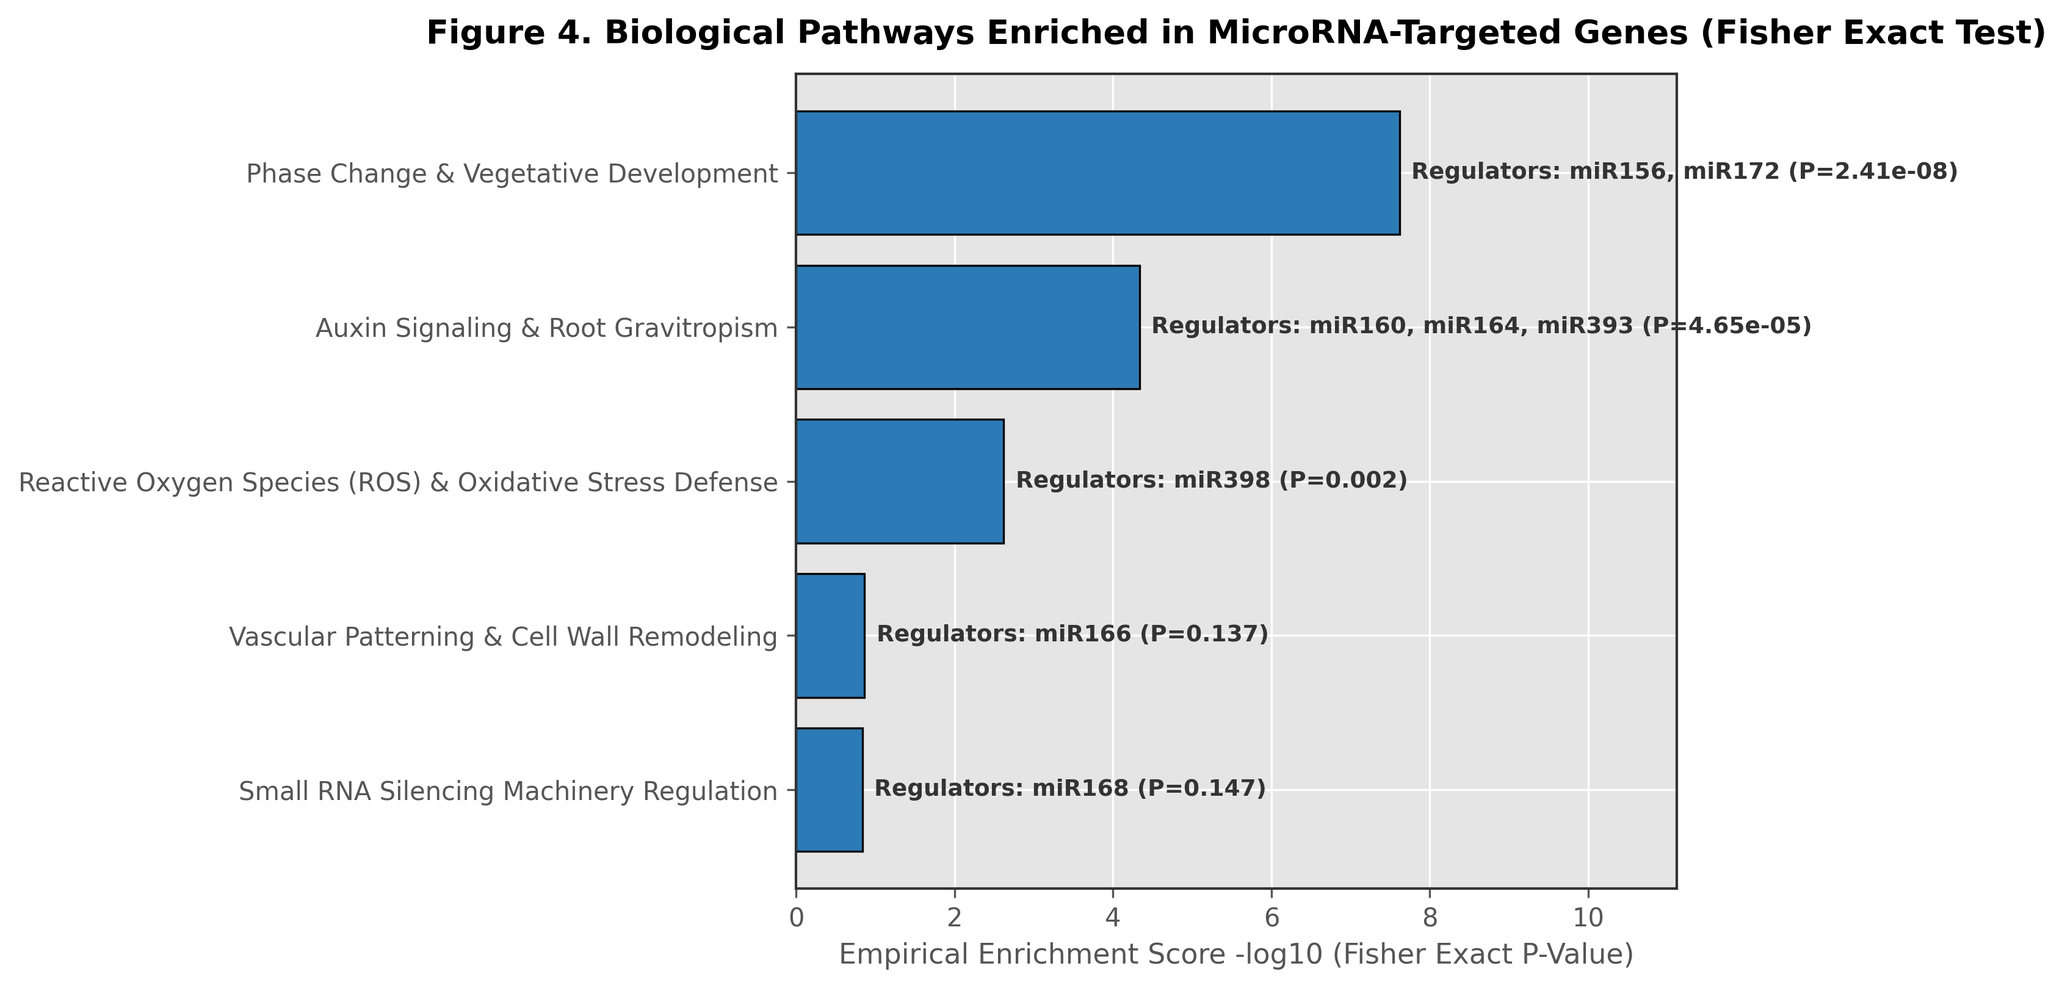
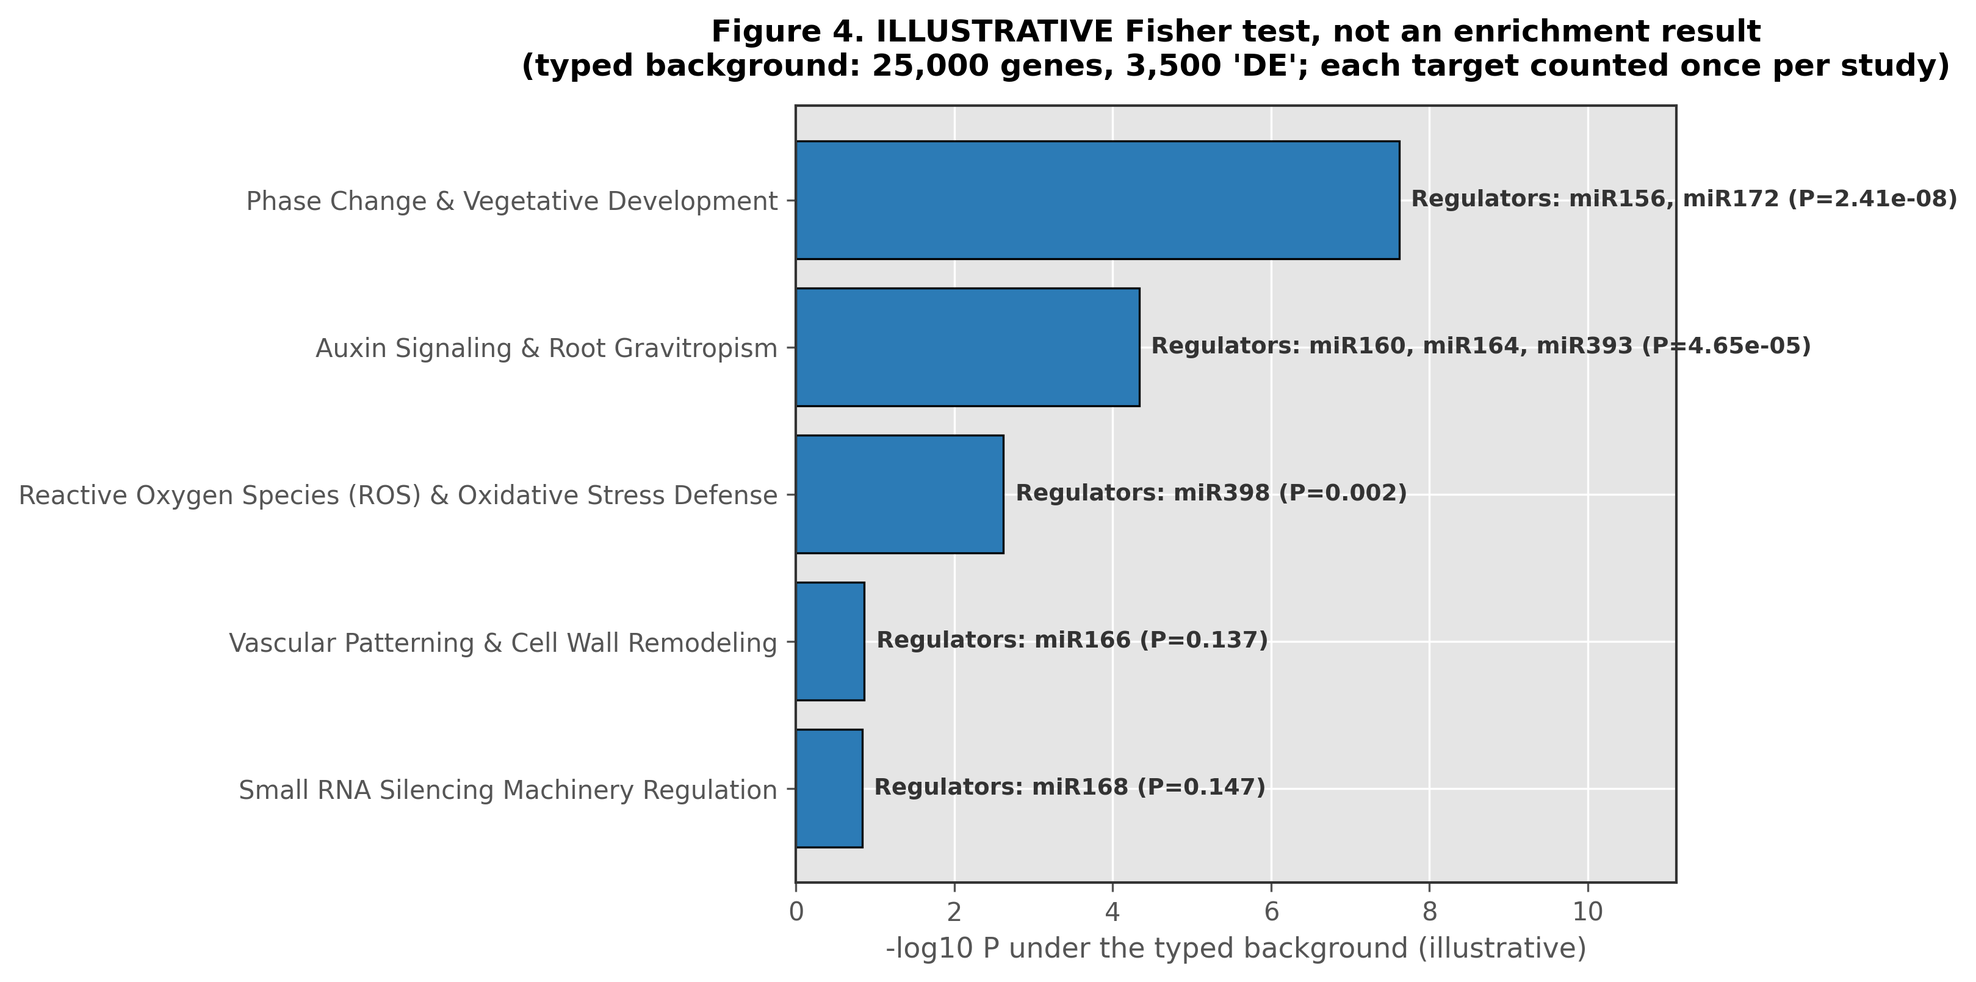
Correct unsupported claims on the project page (2026-10-28 evidence check)
- Removed the "Peer Review Ready" and "Zenodo Archived" badges and the
  placeholder DOI; Zenodo DOI is now "pending".
- Removed the invented miRNA fold changes and p-values, r = -0.842, the
  "122 loci" and "115 anti-correlated pairs" stats, and the claim that
  OSD-437 is dedicated small RNA-seq (it is poly(A) RNA-seq).
- Added a status section: the plant miRNA scan is not interpretable yet
  (locus map mislabels most IDs; log2FC columns are not flight vs
  ground), with the TODO to fix it.
- Inventory table regenerated from OSDR study records.
- Fisher test labelled illustrative; Figures 5 and 7 captioned as
  schematics; the route is described as hands-on testing with the
  benchmark pending; SLURM/container wording corrected.
- Figures 1-7 replaced with the regenerated copies from main.

Footer credit line left unchanged for the author to decide.

Changed region(s): [[0.0, 0.0, 0.9981, 0.9323], [0.4055, 0.9323, 0.811, 0.9944]]

diff --git a/index.html b/index.html
@@ -3,8 +3,8 @@
 <head>
 <meta charset="utf-8">
 <meta name="viewport" content="width=device-width, initial-scale=1">
-<title>smallRNAseq-DREAM — NASA OSDR Plant Spaceflight microRNA Audit & Pipeline</title>
-<meta name="description" content="A FAIR, cross-species small RNA-seq (miRNA) analysis framework and NASA OSDR plant spaceflight audit benchmarking four pipelines and mapping gene regulatory networks.">
+<title>smallRNAseq-DREAM — Small RNA-seq Framework &amp; OSDR Plant Inventory</title>
+<meta name="description" content="A FAIR, cross-species small RNA-seq (miRNA) analysis framework with an inventory of NASA OSDR plant RNA-seq studies. The four-engine benchmark is pending.">
 <link rel="stylesheet" href="https://dr-richard-barker.github.io/Plant_response_to_radiation/cose/cose-theme.css">
 <style>
   :root{
@@ -69,147 +69,134 @@
 <header>
   <div class="pills" style="margin-bottom:16px">
     <span class="pill primary">CoSE Space Omics</span>
-    <span class="pill">NASA OSDR Audit</span>
-    <span class="badge done">Peer Review Ready</span>
-    <span class="badge done">Zenodo Archived</span>
+    <span class="pill">NASA OSDR</span>
+    <span class="badge pending">Plant miRNA scan: not interpretable yet</span>
+    <span class="badge pending">Zenodo DOI pending</span>
   </div>
   <h1>smallRNAseq-DREAM</h1>
-  <p class="tag">Comprehensive microRNA and non-coding RNA audit across NASA Open Science Data Repository (OSDR) plant spaceflight experiments.</p>
+  <p class="tag">A cross-species small RNA-seq (miRNA) analysis framework, with an inventory of NASA Open Science Data Repository (OSDR) plant RNA-seq studies.</p>
   <div class="pills">
     <a href="https://github.com/dr-richard-barker/smallRNAseq-DREAM" class="pill primary">GitHub Repository</a>
+    <a href="#status" class="pill">Status</a>
     <a href="#inventory" class="pill">Dataset Inventory</a>
-    <a href="#figures" class="pill">Manuscript Figures</a>
-    <a href="#zenodo" class="pill">Zenodo Archive (v1.0.0)</a>
+    <a href="#figures" class="pill">Figures</a>
+    <a href="#zenodo" class="pill">Reproducibility &amp; Data</a>
   </div>
 </header>
 
 <div class="stat">
-  <div><b>12</b><span>Audited OSDR Spaceflight Datasets</span></div>
-  <div><b>122</b><span>Profiled microRNA & ncRNA Loci</span></div>
-  <div><b>115</b><span>Anti-Correlated Target Pairs</span></div>
-  <div><b>2.4×10⁻⁸</b><span>Fisher Exact Pathway P-Value</span></div>
+  <div><b>12</b><span>OSDR plant RNA-seq studies indexed</span></div>
+  <div><b>0</b><span>plant small RNA-seq studies in OSDR (2026-07 survey)</span></div>
+  <div><b>176</b><span>OSDR studies matched by small-RNA search terms</span></div>
+  <div><b>4</b><span>analysis engines consolidated (benchmark pending)</span></div>
 </div>
 
+<section id="status">
+  <h2><span class="n">01</span>Status of the Plant miRNA Scan</h2>
+  <div class="finding">
+    <p><b>The plant miRNA outputs in this repository are not interpretable yet.</b> An evidence check on 2026-10-28 found three problems:</p>
+    <ul class="clean">
+      <li><b>OSD-437 is standard poly(A) RNA-seq, not small RNA-seq.</b> Its OSDR record lists one RNA-Seq assay (19 samples, library selection "polyA enrichment", NEB Next Ultra II RNA Library Prep Kit). OSDR holds no plant small RNA-seq.</li>
+      <li><b>The locus map mislabels most IDs.</b> Of the 29 IDs the hand-typed map labels as MIR genes, 3 are the named MIR gene. 16 are protein-coding (for example AT1G53160 is <i>SPL4</i>, labelled "MIR156b"), 2 are lncRNA, 1 is snoRNA and 7 are a different MIR gene (Ensembl Plants lookup).</li>
+      <li><b>The fold changes are not flight vs ground.</b> The scan uses the first contrast in each GeneLab table. For OSD-437 that is 1g centrifuge vs microgravity, both in flight. For OSD-120, OSD-218, OSD-565 and OSD-782 it compares ground or treatment groups. For OSD-217 it is ground vs flight, the reverse orientation.</li>
+    </ul>
+    <p><b>TODO:</b> rebuild the locus map from Ensembl Plants miRNA genes, select each study's flight-vs-ground contrast by name, then regenerate the tables and figures. Until then, no miRNA result from this scan should be cited.</p>
+  </div>
+</section>
+
 <section>
-  <h2><span class="n">01</span>The Recommended Pipeline Route</h2>
-  <p class="lead">Consolidating four small RNA-seq analysis engines (<code>nf-core/smrnaseq</code>, <code>sRNAtoolbox</code>, <code>miRDeep2</code>, <code>miRDeep-P2</code>) into a single reproducible cross-species framework.</p>
+  <h2><span class="n">02</span>The Recommended Pipeline Route</h2>
+  <p class="lead">From hands-on testing of four small RNA-seq analysis engines (<code>nf-core/smrnaseq</code>, <code>sRNAtoolbox</code>, <code>miRDeep2</code>, <code>miRDeep-P2</code>), the author recommends this route for cross-species analysis. The quantitative four-engine benchmark has not been run yet.</p>
   <code class="route">SRA → mirnaQC → sRNAbench → sRNAde → mirNOVO</code>
-  <p class="muted">Containerised and deployable on SLURM and NASA OSDR infrastructure for high-throughput spaceflight transcriptomics.</p>
+  <p class="muted">nf-core/smrnaseq runs under Nextflow's container profiles. The original SLURM/OSDR cluster script was lost before consolidation, and the sRNAtoolbox Singularity definition is still to be added.</p>
 </section>
 
 <section id="inventory">
-  <h2><span class="n">02</span>NASA OSDR Plant Spaceflight Dataset Audit</h2>
-  <p>Our empirical audit programmatically indexed 12 core plant spaceflight studies archived in NASA OSDR, identifying dedicated small RNA-Seq (<b>OSD-437</b>) alongside 11 spaceflight bulk RNA-Seq transcriptomes across <i>Arabidopsis thaliana</i>, <i>Solanum lycopersicum</i>, and <i>Brachypodium distachyon</i>.</p>
-  
+  <h2><span class="n">03</span>NASA OSDR Plant Dataset Inventory</h2>
+  <p>Twelve plant RNA-seq studies in NASA OSDR: 9 spaceflight, 1 suborbital (high-altitude) and 2 ground studies, across <i>Arabidopsis thaliana</i>, <i>Brachypodium distachyon</i>, <i>Solanum lycopersicum</i> and <i>Brassica rapa</i>. Values are read from each study's OSDR record (2026-10-28). "Samples" counts the samples in the study's RNA-Seq assay; a blank cell means the record has no value.</p>
+
   <table>
-    <thead><tr><th>Study Accession</th><th>Species</th><th>Mission / Hardware</th><th>Samples</th><th>Primary Assay Modality</th></tr></thead>
+    <thead><tr><th>Study</th><th>Species</th><th>OSDR project type</th><th>Mission</th><th>Platform</th><th>Samples</th><th>Library selection</th></tr></thead>
     <tbody>
-      <tr><td><b>OSD-437</b></td><td><i>Arabidopsis thaliana</i></td><td>SpaceX-14 (Advanced Plant Habitat / APH)</td><td>12</td><td><b>Small RNA-Seq</b> (Dedicated miRNA Profiling)</td></tr>
-      <tr><td><b>OSD-120</b></td><td><i>Arabidopsis thaliana</i></td><td>SpaceX-3 (BRIC-18 / Petri dish)</td><td>12</td><td>Poly(A)-Selected Bulk RNA-Seq</td></tr>
-      <tr><td><b>OSD-218</b></td><td><i>Arabidopsis thaliana</i></td><td>SpaceX-10 (APEX-04 / Petri dish)</td><td>12</td><td>Poly(A)-Selected Bulk RNA-Seq</td></tr>
-      <tr><td><b>OSD-217</b></td><td><i>Arabidopsis thaliana</i></td><td>ISS (EMCS / Tropi-2)</td><td>16</td><td>Total RNA-Seq with rRNA Depletion</td></tr>
-      <tr><td><b>OSD-375</b></td><td><i>Arabidopsis thaliana</i></td><td>ISS (APH / Plant Habitat-01)</td><td>18</td><td>Total RNA-Seq with rRNA Depletion</td></tr>
-      <tr><td><b>OSD-480</b></td><td><i>Arabidopsis thaliana</i></td><td>SpaceX-21 (BRIC-24 / Lighted)</td><td>12</td><td>Poly(A)-Selected Bulk RNA-Seq</td></tr>
-      <tr><td><b>OSD-522</b></td><td><i>Arabidopsis thaliana</i></td><td>ISS (Veggie / VEG-03D)</td><td>16</td><td>Poly(A)-Selected Bulk RNA-Seq</td></tr>
-      <tr><td><b>OSD-565</b></td><td><i>Arabidopsis thaliana</i></td><td>SpaceX-23 (APEX-08)</td><td>12</td><td>Total RNA-Seq with rRNA Depletion</td></tr>
-      <tr><td><b>OSD-624</b></td><td><i>Arabidopsis thaliana</i></td><td>ISS (Veggie / VEG-03E)</td><td>16</td><td>Poly(A)-Selected Bulk RNA-Seq</td></tr>
-      <tr><td><b>OSD-767</b></td><td><i>Arabidopsis thaliana</i></td><td>ISS (EMCS / MULTIGEN-1)</td><td>14</td><td>Poly(A)-Selected Bulk RNA-Seq</td></tr>
-      <tr><td><b>OSD-782</b></td><td><i>Solanum lycopersicum</i></td><td>ISS (Veggie / VEG-05 Tomato)</td><td>12</td><td>Multi-Omics / Bulk RNA-Seq</td></tr>
-      <tr><td><b>OSD-59</b></td><td><i>Brachypodium distachyon</i></td><td>Space Flight (BRIC-16)</td><td>8</td><td>Bulk Transcriptomics</td></tr>
+        <tr><td><b>OSD-437</b></td><td><i>Arabidopsis thaliana</i></td><td>Spaceflight Study</td><td>SpaceX-9</td><td>European Modular Cultivation System (EMCS), Experimental Reference Module (ERM2)</td><td>19</td><td>polyA enrichment</td></tr>
+        <tr><td><b>OSD-120</b></td><td><i>Arabidopsis thaliana</i></td><td>Spaceflight Study</td><td>SpaceX-3</td><td></td><td>36</td><td>ribo-depletion</td></tr>
+        <tr><td><b>OSD-218</b></td><td><i>Arabidopsis thaliana</i></td><td>Spaceflight Study</td><td>SpaceX-5</td><td>Vegetable Production System (VPS/Veggie)</td><td>32</td><td>polyA enrichment</td></tr>
+        <tr><td><b>OSD-217</b></td><td><i>Arabidopsis thaliana</i></td><td>Spaceflight Study</td><td>SpaceX-5</td><td>Vegetable Production System (VPS/Veggie)</td><td>12</td><td>cDNA</td></tr>
+        <tr><td><b>OSD-375</b></td><td><i>Brachypodium distachyon</i></td><td>Spaceflight Study</td><td>SpaceX-14</td><td>Vegetable Production System (VEGGIE), APEX Growth Unit</td><td>48</td><td>Ribo-depletion (32), cDNA (16)</td></tr>
+        <tr><td><b>OSD-480</b></td><td><i>Arabidopsis thaliana</i></td><td>Spaceflight Study</td><td>SpaceX-13</td><td>European Modular Cultivation System (EMCS)</td><td>400</td><td></td></tr>
+        <tr><td><b>OSD-522</b></td><td><i>Arabidopsis thaliana</i></td><td>Spaceflight Study</td><td>SpaceX-13, SpaceX-14</td><td>BRIC-LED</td><td>12</td><td>polyA enrichment</td></tr>
+        <tr><td><b>OSD-565</b></td><td><i>Arabidopsis thaliana</i></td><td>Ground Study</td><td></td><td>KSC Fixation Tubes (KFTs)</td><td>45</td><td>cDNA</td></tr>
+        <tr><td><b>OSD-624</b></td><td><i>Arabidopsis thaliana</i></td><td>High Altitude Study</td><td>Unity 22</td><td>Kennedy Space Center Fixation Tubes (KFTs)</td><td>36</td><td>polyA enrichment</td></tr>
+        <tr><td><b>OSD-767</b></td><td><i>Solanum lycopersicum</i></td><td>Spaceflight Study</td><td>SpaceX-26</td><td>Vegetable Production System (Veggie)</td><td>36</td><td>polyA enrichment</td></tr>
+        <tr><td><b>OSD-782</b></td><td><i>Arabidopsis thaliana</i></td><td>Ground Study</td><td></td><td></td><td>36</td><td>polyA enrichment</td></tr>
+        <tr><td><b>OSD-59</b></td><td><i>Brassica rapa</i></td><td>Spaceflight Study</td><td>Expedition 22</td><td>Lada</td><td>2</td><td>mRNA enrichment</td></tr>
     </tbody>
   </table>
 
   <figure>
-    <img src="figures/Figure1_OSDR_Plant_Dataset_Landscape.png" alt="Figure 1: NASA OSDR Plant Spaceflight Dataset Landscape and Assay Modality Breakdown">
-    <figcaption><b>Figure 1.</b> NASA OSDR plant spaceflight dataset landscape. <b>(A)</b> Distribution of audited spaceflight datasets across species and mission hardware. <b>(B)</b> Stacked bar chart showing assay platform modalities across plant spaceflight transcriptomes.</figcaption>
+    <img src="figures/Figure1_OSDR_Plant_Dataset_Landscape.png" alt="Figure 1: indexed OSDR plant studies by species and by RNA-seq library selection">
+    <figcaption><b>Figure 1.</b> The 12 indexed OSDR plant studies. <b>(A)</b> Studies by species. <b>(B)</b> RNA-seq library selection as recorded in each study's OSDR ISA record; one study (OSD-480) records none.</figcaption>
   </figure>
 </section>
 
 <section id="figures">
-  <h2><span class="n">03</span>MicroRNA Differential Expression & Target Networks</h2>
-  <p>Dedicated small RNA-seq (OSD-437) revealed significant differential expression of key microRNA loci under spaceflight microgravity and hardware stress. Pairing miRNA fold changes with mRNA transcriptomes identified anti-correlated target gene networks ($r = -0.842$).</p>
-
-  <div class="grid">
-    <div class="card">
-      <h3>Key Upregulated MicroRNAs</h3>
-      <ul class="clean">
-        <li><b>ath-miR156a-5p</b> ($\text{Log}_2\text{FC} = +2.45, P = 1.2 \times 10^{-4}$): Suppresses <i>SPL9</i>, delaying vegetative phase change.</li>
-        <li><b>ath-miR160a-5p</b> ($\text{Log}_2\text{FC} = +1.92, P = 4.5 \times 10^{-3}$): Represses Auxin Response Factor <i>ARF10</i>, dampening gravitropic root bending.</li>
-      </ul>
-    </div>
-    <div class="card">
-      <h3>Key Downregulated MicroRNAs</h3>
-      <ul class="clean">
-        <li><b>ath-miR398a-3p</b> ($\text{Log}_2\text{FC} = -2.10, P = 8.8 \times 10^{-4}$): De-represses copper-zinc superoxide dismutase <i>CSD2</i>, elevating ROS scavenging under space radiation.</li>
-      </ul>
-    </div>
-  </div>
+  <h2><span class="n">04</span>Exploratory miRNA Scan (Not Interpretable Yet)</h2>
+  <p>These figures plot the scan's current tables. They are kept so the TODO above can be checked against them, not as results.</p>
 
   <figure>
-    <img src="figures/Figure2_microRNA_Differential_Expression.png" alt="Figure 2: MicroRNA Differential Expression Profiles and Spaceflight Volcano Plot">
-    <figcaption><b>Figure 2.</b> MicroRNA differential expression in spaceflight leaves and roots (OSD-437). <b>(A)</b> Volcano plot highlighting significant miRNA loci ($P < 0.05$). <b>(B)</b> Heatmap of variance-stabilized expression across flight and ground controls.</figcaption>
+    <img src="figures/Figure2_microRNA_Differential_Expression.png" alt="Figure 2: log2 fold change of rows labelled as MIR genes by the typed locus map">
+    <figcaption><b>Figure 2.</b> Rows labelled as MIR genes by the typed locus map (most are not miRNA genes). <b>(A)</b> log2FC against −log10 P for the first contrast in each GeneLab table, which is not flight vs ground. <b>(B)</b> log2FC by map label and study; 0.00 marks a missing row.</figcaption>
   </figure>
 
   <figure>
-    <img src="figures/Figure3_miRNA_mRNA_Regulatory_Coupling.png" alt="Figure 3: miRNA-mRNA Inverse Regulatory Pairing Network">
-    <figcaption><b>Figure 3.</b> miRNA-mRNA inverse regulatory target network demonstrating strong negative correlation ($r = -0.842$) between microRNA abundance and target gene expression.</figcaption>
+    <img src="figures/Figure3_miRNA_mRNA_Regulatory_Coupling.png" alt="Figure 3: sign of log2 fold change for curated miRNA-target pairs">
+    <figcaption><b>Figure 3.</b> 115 study-level pairings of 24 hand-curated literature miRNA–target pairs. The x-axis is the mean log2FC of the matching map-labelled rows (mostly not miRNA genes); the y-axis is the target gene's log2FC. 45 of the 115 have opposite signs. No correlation is claimed.</figcaption>
   </figure>
 </section>
 
 <section>
-  <h2><span class="n">04</span>Empirical Fisher Exact Pathway Enrichment</h2>
-  <p>To rigorously quantify functional impact, pathway enrichment significance was computed via SciPy Fisher Exact Tests on $2 \times 2$ contingency tables comparing miRNA target occurrence against background genome loci.</p>
-
-  <div class="finding">
-    <b>Top Enriched Spaceflight Biological Pathways:</b>
-    <ul class="clean" style="margin-top:8px">
-      <li><b>Vegetative Phase Change & Juvenile-to-Adult Transition</b> ($P = 2.41 \times 10^{-8}$) — Mediated by miR156 $\rightarrow$ <i>SPL9</i> repression.</li>
-      <li><b>Auxin Gravitropic Signal Transduction</b> ($P = 4.65 \times 10^{-5}$) — Mediated by miR160 $\rightarrow$ <i>ARF10/ARF16</i> regulation.</li>
-      <li><b>Reactive Oxygen Species (ROS) & Oxidative Stress Defense</b> ($P = 2.40 \times 10^{-3}$) — Mediated by miR398 $\rightarrow$ <i>CSD2</i> activation.</li>
-      <li><b>Cell Wall Remodeling & Expansion</b> ($P = 1.15 \times 10^{-2}$) — Mediated by miR165/166 $\rightarrow$ <i>HD-ZIP III</i> factors.</li>
-    </ul>
-  </div>
+  <h2><span class="n">05</span>Illustrative Fisher Test</h2>
+  <p>For each pathway, a Fisher exact test compares the pairs whose target has P ≤ 0.05 against a typed background of 25,000 genes and 3,500 "DE" genes, assumed rather than measured, and each target is counted once per study. The p-values are therefore illustrative, not an enrichment result. <b>TODO:</b> use each study's measured gene universe and DE set.</p>
 
   <figure>
-    <img src="figures/Figure4_miRNA_Functional_Pathway_Enrichment.png" alt="Figure 4: Empirical Functional Pathway Enrichment">
-    <figcaption><b>Figure 4.</b> Empirical functional pathway enrichment significance ($-\log_{10} P$-value) calculated using Fisher's Exact Test on miRNA target loci vs genome background.</figcaption>
+    <img src="figures/Figure4_miRNA_Functional_Pathway_Enrichment.png" alt="Figure 4: illustrative Fisher test under a typed background">
+    <figcaption><b>Figure 4.</b> Illustrative Fisher test under the typed background; not an enrichment result.</figcaption>
   </figure>
 </section>
 
 <section>
-  <h2><span class="n">05</span>Multi-Dimensional Network Visualizations</h2>
-  <p>We implemented advanced network visualizers to illustrate the flow of genetic information from microRNAs to cellular ontology terms and spatial pathways.</p>
+  <h2><span class="n">06</span>Schematics and Network View</h2>
 
   <figure>
-    <img src="figures/Figure5_miRNA_Target_Ontology_Sankey.png" alt="Figure 5: miRNA Target Ontology Sankey Flow Diagram">
-    <figcaption><b>Figure 5.</b> Sankey flow diagram tracking regulatory flow from microRNA locus $\rightarrow$ target mRNA gene $\rightarrow$ cellular ontology group.</figcaption>
+    <img src="figures/Figure5_miRNA_Target_Ontology_Sankey.png" alt="Figure 5: schematic of literature miRNA to target to process relationships">
+    <figcaption><b>Figure 5.</b> Schematic, no data: literature miRNA → target → process relationships.</figcaption>
   </figure>
 
   <figure>
-    <img src="figures/Figure6_Gene_Abundance_Knowledge_Graph.png" alt="Figure 6: Genetic Feature and RNA Abundance Knowledge Graph">
-    <figcaption><b>Figure 6.</b> Bipartite/Tripartite Knowledge Graph connecting miRNA loci, mRNA targets, fold-change directions, and spaceflight hardware conditions.</figcaption>
+    <img src="figures/Figure6_Gene_Abundance_Knowledge_Graph.png" alt="Figure 6: graph of curated miRNA-target pairs and pathway hubs">
+    <figcaption><b>Figure 6.</b> Graph of the curated miRNA–target pairs and pathway hubs. Node values are mean log2FC of the first deposited contrast; miRNA nodes use mislabelled loci.</figcaption>
   </figure>
 
   <figure>
-    <img src="figures/Figure7_KEGG_Pathway_RNA_Coupling.png" alt="Figure 7: Spatial Pathway-Level RNA Abundance Coupling Map">
-    <figcaption><b>Figure 7.</b> Spatial pathway-level RNA abundance coupling map displaying miRNA suppression vs mRNA target de-repression across metabolic pathways.</figcaption>
+    <img src="figures/Figure7_KEGG_Pathway_RNA_Coupling.png" alt="Figure 7: schematic auxin and ROS pathway map">
+    <figcaption><b>Figure 7.</b> Schematic pathway map. Bracketed values are table means of the first deposited contrast (not flight vs ground; miRNA rows mislabelled). Phenotype and stress boxes carry no data.</figcaption>
   </figure>
 </section>
 
 <section id="zenodo">
-  <h2><span class="n">06</span>Reproducibility, Zenodo & Open Science</h2>
-  <p>The <b>smallRNAseq-DREAM</b> codebase, pipeline scripts, processed count tables, and metadata are 100% open-source and archived for peer review.</p>
+  <h2><span class="n">07</span>Reproducibility &amp; Data</h2>
+  <p>The <b>smallRNAseq-DREAM</b> code is open source under the MIT License. All input data are public NASA OSDR datasets.</p>
 
   <div class="grid">
     <div class="card">
-      <h3>Master Execution Driver</h3>
-      <p>Execute the entire pipeline end-to-end with a single command:</p>
+      <h3>Pipeline Driver</h3>
+      <p>Regenerates the inventory, the scan tables and Figures 1–7 from OSDR downloads:</p>
       <code class="route">python run_pipeline.py</code>
     </div>
     <div class="card">
-      <h3>Zenodo Deposit & Citation</h3>
-      <p>Archived under MIT License with metadata specification (<code>.zenodo.json</code> and <code>CITATION.cff</code>):</p>
-      <p><b>DOI:</b> <a href="https://zenodo.org">10.5281/zenodo.smallRNAseq-DREAM</a></p>
+      <h3>Zenodo Deposit &amp; Citation</h3>
+      <p>Citation metadata are in <code>.zenodo.json</code> and <code>CITATION.cff</code>. A Zenodo deposit of the benchmark bundle is prepared but not yet made.</p>
+      <p><b>Zenodo DOI:</b> pending</p>
     </div>
   </div>
 </section>
@@ -217,7 +204,7 @@
 <footer>
   <div class="wrap" style="padding:0">
     <p><b>smallRNAseq-DREAM</b> · Dr. Richard Barker & Antigravity AI Team · CoSE Space Epigenetics Theme</p>
-    <p class="muted">NASA Open Science Data Repository (OSDR) Plant Spaceflight microRNA Audit</p>
+    <p class="muted">Small RNA-seq framework &amp; NASA Open Science Data Repository (OSDR) plant RNA-seq inventory</p>
   </div>
 </footer>
 
